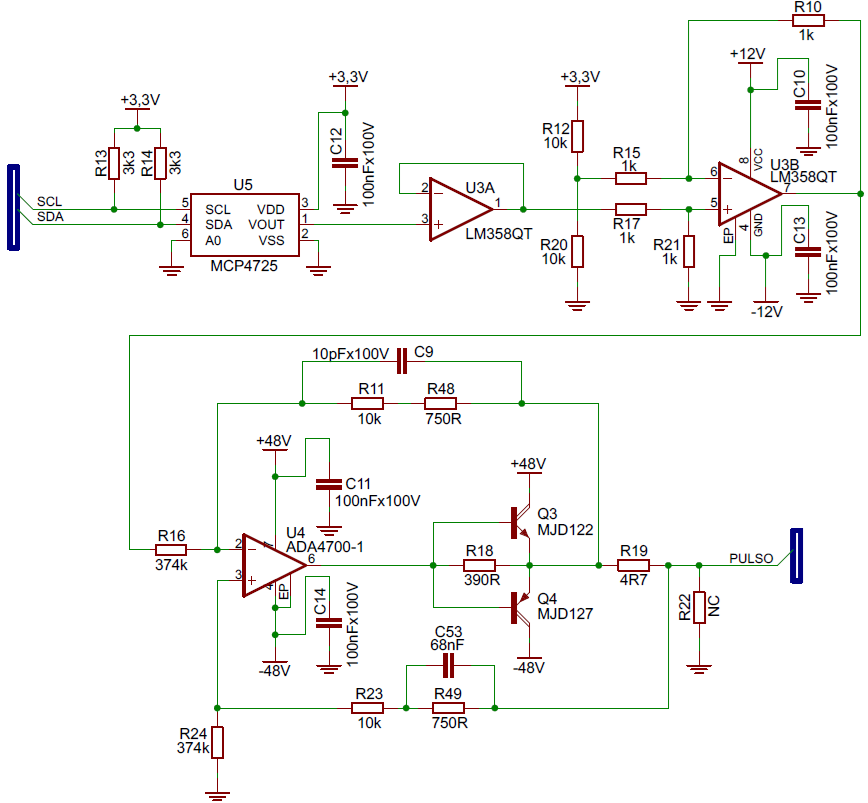
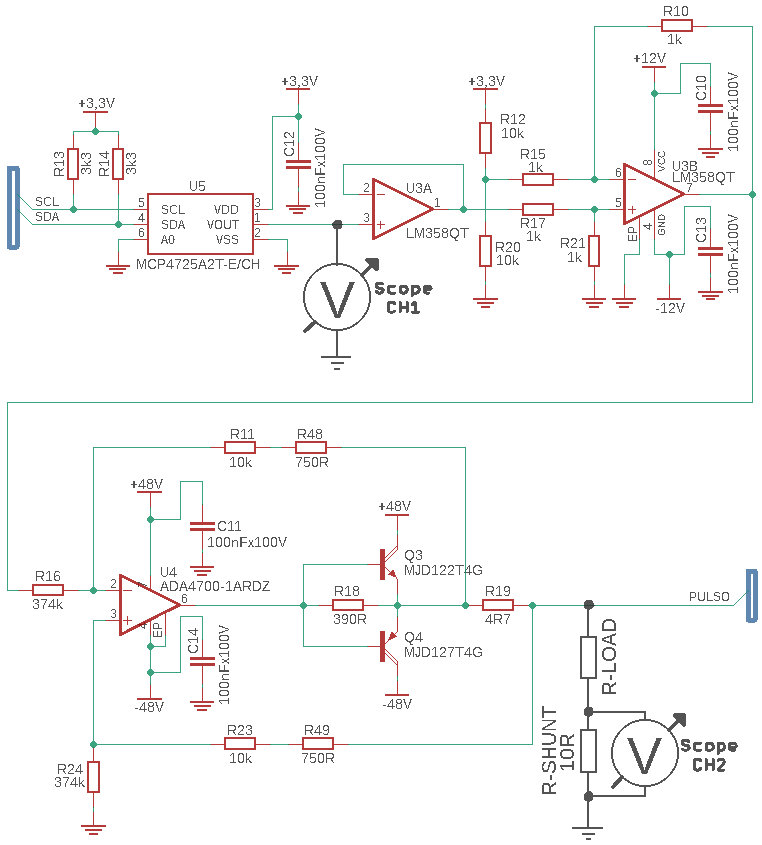
Paper v2 release

diff --git a/MSc/PEL309/2.Paper/pel309.tex b/MSc/PEL309/2.Paper/pel309.tex
@@ -49,7 +49,8 @@ Functional Electrical Stimulation, Howland current source, linearity analysis, o
 
 \section{Introduction}
 
-Functional Electrical Stimulation (FES) systems electrically activate peripheral nerves or muscles in order to assist or restore motor functions in rehabilitation and assistive applications \cite{FES_REVIEW_1}, \cite{FES_REVIEW_2}. In current-controlled stimulation, the delivered current amplitude is a central parameter because it is directly associated with the recruited neuromuscular response, user comfort, and repeatability of the stimulation protocol \cite{CURRENT_CONTROLLED_STIMULATION}. For this reason, the relationship between the embedded command variable and the actual output current must be experimentally characterized.
+Functional Electrical Stimulation (FES) systems electrically activate peripheral nerves in order to assist or restore motor functions in rehabilitation and assistive applications [\citen{FES_REVIEW_1}-\citen{FES_REVIEW_2}]. FES uses electrical pulses to evoke muscle contractions for functional assistance or rehabilitation. Stimulation systems typically allow the configuration of pulse amplitude, width, frequency, and waveform shape. Among these variables, amplitude control is particularly important because it is directly associated with the recruited neuromuscular response, user comfort, and repeatability of the stimulation protocol.\cite{CURRENT_CONTROLLED_STIMULATION}. For this reason, the relationship between the embedded command variable and the actual output current must be experimentally characterized.
+
 
 This work is related to the STIMGRASP FES master's thesis developed at Centro Universitário FEI by Barelli, which proposed a portable neuromuscular electrical stimulator for grasp restoration \cite{STIMGRASP_THESIS}. The original work describes a digitally controlled stimulation architecture based on a modified Howland current source and discusses linear stimulation ramps and current-controlled stimulation behavior. In that investigation, predictable current control behavior is assumed as part of the stimulation architecture. However, detailed DAC-versus-current characterization curves under different load conditions are not presented, and the behavior implied by the architecture is not quantitatively characterized through correlation, regression, compliance, or load-consistency analyses.
 
@@ -60,12 +61,6 @@ The STIMGRASP circuit does not include current feedback to the microcontroller u
 The main contributions of this paper are: (i) quantitative characterization of the DAC-voltage-to-output-current relationship; (ii) experimental compliance-region analysis based on load voltage; (iii) statistical validation of linearity using Pearson and Spearman correlations and regression metrics; (iv) regression analysis by load and a single global model; and (v) discussion of the practical limitations of open-loop current estimation in the absence of closed-loop current monitoring.
 
 \section{Background}
-
-\subsection{Functional Electrical Stimulation}
-
-FES uses electrical pulses to evoke muscle contractions for functional assistance or rehabilitation. Stimulation systems typically allow the configuration of pulse amplitude, width, frequency, and waveform shape. Among these variables, amplitude control is particularly important because it modulates the intensity of nerve and muscle recruitment \cite{FES_REVIEW_1}, \cite{CURRENT_CONTROLLED_STIMULATION}.
-
-The present study is restricted to output-stage characterization under controlled laboratory conditions. Resistive loads were used to represent controlled variations in equivalent human impedance and electrode contact quality while preserving repeatability. Such loads are useful for instrumentation analysis, but they do not fully reproduce the nonlinear, time-varying, and electrode-dependent behavior of the skin-electrode interface \cite{ELECTRODE_SKIN_IMPEDANCE}.
 
 \subsection{Howland Current Source and Compliance Voltage}
 
@@ -92,12 +87,12 @@ I_{\mathrm{out}} = a V_{\mathrm{DAC}} + b,
 \end{equation}
 where $V_{\mathrm{DAC}}$ is the DAC control voltage and $a$ and $b$ are regression coefficients. In the evaluated circuit, $a$ is negative because increasing the DAC voltage decreases the output current.
 
-The embedded DAC estimation equation is obtained by rearranging \eqref{eq:direct_model}:
+The embedded DAC estimation equation is obtained by rearranging Equation~\ref{eq:direct_model}:
 \begin{equation}
 V_{\mathrm{DAC}} = \frac{I_{\mathrm{target}} - b}{a}.
 \label{eq:dac_estimation_model}
 \end{equation}
-Equation \eqref{eq:dac_estimation_model} is valid only within the experimentally selected compliance region. Outside this region, the output current is constrained by available output voltage and load resistance, and the DAC-to-current model may predict a current that cannot be physically delivered once the output stage reaches voltage compliance.
+Equation~\ref{eq:dac_estimation_model} is valid only within the experimentally selected compliance region. Outside this region, the output current is constrained by available output voltage and load resistance, and the DAC-to-current model may predict a current that cannot be physically delivered once the output stage reaches voltage compliance.
 
 \section{Materials and Methods}
 
@@ -105,7 +100,8 @@ Equation \eqref{eq:dac_estimation_model} is valid only within the experimentally
 
 The evaluated output stage was an FES circuit based on a Howland current source. The MCU controlled the stimulation command through a DAC voltage input. A dedicated experimental firmware was developed for this characterization. Its only function was to generate a controlled DAC ramp with an initial and final resting interval; it was not the conventional stimulation firmware and did not generate a complete FES pulse train with therapeutic stimulation parameters. The nominal resting or reference point of the DAC command was approximately 1.65 V. This value is not arbitrary: in the STIMGRASP output-stage circuit, it corresponds to the zero-current operating point, for which the output current is approximately 0 mA and the load voltage is consequently approximately 0 V. In this work, the intervals around this 1.65 V reference are referred to as the zero-current resting regime. The DAC voltage was swept from approximately 0 V to 3.3 V.
 
-Figure~\ref{fig:output_stage_schematic} shows the evaluated DAC and Howland-current-source output stage as extracted from the STIMGRASP documentation. The schematic is used only to identify the characterized circuit block and does not imply a hardware redesign.
+Figure~\ref{fig:output_stage_schematic} shows the evaluated DAC and Howland-current-source output stage as extracted from the STIMGRASP documentation. The schematic is used only to identify the characterized circuit block and does not imply a hardware redesign. It also highlights the oscilloscope voltage measurement points, labeled as Scope CH1 at the DAC output and Scope CH2 at the FES output.
+
 
 \begin{figure}[htbp]
 \centerline{\placeholderfigure{images/fig_output_stage_schematic.png}}
@@ -113,7 +109,7 @@ Figure~\ref{fig:output_stage_schematic} shows the evaluated DAC and Howland-curr
 \label{fig:output_stage_schematic}
 \end{figure}
 
-Output current was measured experimentally using an external measurement setup with a 10 $\Omega$ shunt resistor. Three resistive loads were evaluated: 1 k$\Omega$, 2 k$\Omega$, and 4.7 k$\Omega$. These loads were selected to emulate controlled variations in equivalent body impedance and electrode contact condition, from lower impedance or better contact to higher impedance or poorer contact, while maintaining repeatable bench-test conditions.
+Output current was measured experimentally using an external measurement setup with a 10 $\Omega$ shunt resistor. Three resistive loads were evaluated: 1 k$\Omega$, 2 k$\Omega$, and 4.7 k$\Omega$. The present study is restricted to output-stage characterization under controlled laboratory conditions. Resistive loads were used to represent controlled variations in equivalent human impedance and electrode contact quality while preserving repeatability. Such loads are useful for instrumentation analysis, but they do not fully reproduce the nonlinear, time-varying, and electrode-dependent behavior of the skin-electrode interface \cite{ELECTRODE_SKIN_IMPEDANCE}.
 
 \subsection{Data Acquisition}
 
@@ -151,11 +147,11 @@ Figure~\ref{fig:raw_dac_shunt} shows a representative raw acquisition for the 1 
 \label{fig:raw_dac_shunt}
 \end{figure}
 
-The useful ramp region was extracted from each acquisition before model identification. In this context, ramp extraction means removing the initial and final zero-current resting-regime samples around the 1.65 V DAC reference and preserving only the swept DAC interval. The measured shunt voltage was converted into output current using the 10 $\Omega$ shunt value. The output voltage was not directly measured; instead, it was inferred from \eqref{eq:vload} using the calculated current and nominal load resistance.
+The useful ramp region was extracted from each acquisition before model identification. In this context, ramp extraction means removing the initial and final zero-current resting-regime samples around the 1.65 V DAC reference and preserving only the swept DAC interval. The measured shunt voltage was converted into output current using the 10 $\Omega$ shunt value. The output voltage was not directly measured; instead, it was inferred from Equation~\ref{eq:vload} using the calculated current and nominal load resistance.
 
 \subsection{Data Processing}
 
-The analysis pipeline first extracted the useful DAC-ramp interval corresponding to the experimental sweep from approximately 0 V to 3.3 V, removing the initial and final resting-regime samples around the nominal 1.65 V reference level. The shunt-voltage measurement was then converted into output current in milliamperes. The current signals were grouped by load resistance, as illustrated in Fig.~\ref{fig:current_per_load_time}. This figure shows current evolution over acquisition samples after ramp extraction; it is not a direct current-versus-DAC-voltage representation. Converting the shunt-voltage measurements into output current made the compliance-limited behavior visible in the processed data. In this region, the load current no longer increases proportionally with the DAC-voltage command, because the output stage is constrained by the voltage required across the load.
+The analysis pipeline first extracted the useful DAC-ramp interval corresponding to the experimental sweep from approximately 0 V to 3.3 V, removing the initial and final resting-regime samples around the nominal 1.65 V reference level. The shunt-voltage measurement was then converted into output current in milliamperes. The current signals were grouped by load resistance, as illustrated in Figure~\ref{fig:current_per_load_time}. This figure shows current evolution over acquisition samples after ramp extraction; it is not a direct current-versus-DAC-voltage representation. Converting the shunt-voltage measurements into output current made the compliance-limited behavior visible in the processed data. In this region, the load current no longer increases proportionally with the DAC-voltage command, because the output stage is constrained by the voltage required across the load.
 
 \begin{figure}[htbp]
 \centerline{\placeholderfigure{images/fig_current_per_load_time.png}}
@@ -163,7 +159,7 @@ The analysis pipeline first extracted the useful DAC-ramp interval corresponding
 \label{fig:current_per_load_time}
 \end{figure}
 
-In the next step, the DAC voltage axis was binned into 10 mV intervals to reduce granularity and measurement noise before compliance-region selection and model identification. For each load resistance and each DAC-voltage bin, the representative current value was obtained as the arithmetic mean of all current samples within that interval. The complete binned representation, shown in Fig.~\ref{fig:binned_with_rest}, includes both the linear current-source region and the compliance-limited region. It is therefore appropriate for characterizing full-range behavior and operating limits, but it is not used directly for deriving the linear DAC estimation model.
+In the next step, the DAC voltage axis was binned into 10 mV intervals to reduce granularity and measurement noise before compliance-region selection and model identification. For each load resistance and each DAC-voltage bin, the representative current value was obtained as the arithmetic mean of all current samples within that interval. The complete binned representation, shown in Figure~\ref{fig:binned_with_rest}, includes both the linear current-source region and the compliance-limited region. It is therefore appropriate for characterizing full-range behavior and operating limits, but it is not used directly for deriving the linear DAC estimation model.
 
 
 \begin{figure}[H]
@@ -208,7 +204,7 @@ Common interval & -43.803 & 46.330 \\
 \end{center}
 \end{table}
 
-After removing samples outside this common compliance interval, Fig.~\ref{fig:full_current_vs_dac} shows the output current versus DAC voltage for the three evaluated loads. The remaining curves correspond to the selected linear operating region used for model identification. Their close agreement indicates that, once compliance-limited samples are excluded, the output current is mainly determined by the DAC command rather than by the load resistance.
+After removing samples outside this common compliance interval, Figure~\ref{fig:full_current_vs_dac} shows the output current versus DAC voltage for the three evaluated loads. The remaining curves correspond to the selected linear operating region used for model identification. Their close agreement indicates that, once compliance-limited samples are excluded, the output current is mainly determined by the DAC command rather than by the load resistance.
 
 \begin{figure}[H]
 \centerline{\placeholderfigure{images/fig_full_current_vs_dac.png}}
@@ -219,9 +215,9 @@ After removing samples outside this common compliance interval, Fig.~\ref{fig:fu
 
 \subsection{Statistical Analysis and Model Identification}
 
-Pearson and Spearman correlations were computed for the selected linear operating region. Pearson correlation was used to quantify linear association, while Spearman correlation was used to evaluate monotonic association \cite{PEARSON_SPEARMAN_COMPARISON}, \cite{CORRELATION_COEFFICIENTS_INTERPRETATION}. Compliance-limited samples were excluded before statistical analysis, so the reported linearity metrics refer only to the hardware-supported operating region used for model identification.
+Pearson and Spearman correlations were computed for the selected linear operating region. Pearson correlation was used to quantify linear association, while Spearman correlation was used to evaluate monotonic association [\citen{PEARSON_SPEARMAN_COMPARISON}-\citen{CORRELATION_COEFFICIENTS_INTERPRETATION}]. Compliance-limited samples were excluded before statistical analysis, so the reported linearity metrics refer only to the hardware-supported operating region used for model identification.
 
-After correlation analysis, the DAC-to-current relationship was modeled as a linear regression problem in the form of \eqref{eq:direct_model}. Linear regression was first performed independently for each load to quantify load-specific slope, intercept, coefficient of determination, and estimation error in the valid region.
+After correlation analysis, the DAC-to-current relationship was modeled as a linear regression problem in the form of Equation~\ref{eq:direct_model}. Linear regression was first performed independently for each load to quantify load-specific slope, intercept, coefficient of determination, and estimation error in the valid region.
 
 A second regression was then performed globally using all selected samples from the 1 k$\Omega$, 2 k$\Omega$, and 4.7 k$\Omega$ loads. For this global fit, each point was represented by a pair $(V_{\mathrm{DAC}}, I_{\mathrm{out}})$, with the load label retained only as auxiliary information. All points from the three loads were combined into a single dataset and used simultaneously in one linear regression. The objective was to identify a single embedded DAC estimation model valid across the evaluated loads inside the hardware-supported compliance interval.
 
@@ -366,7 +362,7 @@ The results indicate that the evaluated Howland-based FES output stage exhibits 
 
 The nonlinear appearance of the complete DAC sweep is explained by compliance-limited behavior, not by a general loss of current-source linearity. The complete dataset is useful because it characterizes the experimental operating limits of the output stage. However, it mixes the linear current-source regime with a region where output current is constrained by the available voltage across the load. For this reason, compliance-limited samples were excluded from the regression analysis and from the derivation of the embedded DAC estimation model.
 
-The global linear model is practically useful for open-loop firmware current configuration. With coefficients $a$ and $b$ identified from the selected valid operating data, the MCU can estimate the required DAC voltage from the desired stimulation current using \eqref{eq:dac_estimation_model}. This supports the open-loop control strategy implied by the original STIMGRASP architecture while adding quantitative calibration and validation to the DAC-to-current transfer behavior described conceptually in the dissertation \cite{STIMGRASP_THESIS}.
+The global linear model is practically useful for open-loop firmware current configuration. With coefficients $a$ and $b$ identified from the selected valid operating data, the MCU can estimate the required DAC voltage from the desired stimulation current using Equation~\ref{eq:dac_estimation_model}. This supports the open-loop control strategy implied by the original STIMGRASP architecture while adding quantitative calibration and validation to the DAC-to-current transfer behavior described conceptually in the dissertation \cite{STIMGRASP_THESIS}.
 
 At the same time, the open-loop DAC estimation model has an important limitation: it is valid only inside the compliance region. In real use, increased skin-electrode impedance, poor electrode contact, or significant load changes may require an output voltage beyond the available compliance. In that case, the real delivered current may be lower than the modeled current. Because the evaluated system does not include current feedback to the MCU, the firmware cannot detect this condition in real time. This limitation is directly related to the distinction between open-loop and closed-loop stimulation control discussed in the broader context of current-controlled FES systems.
 